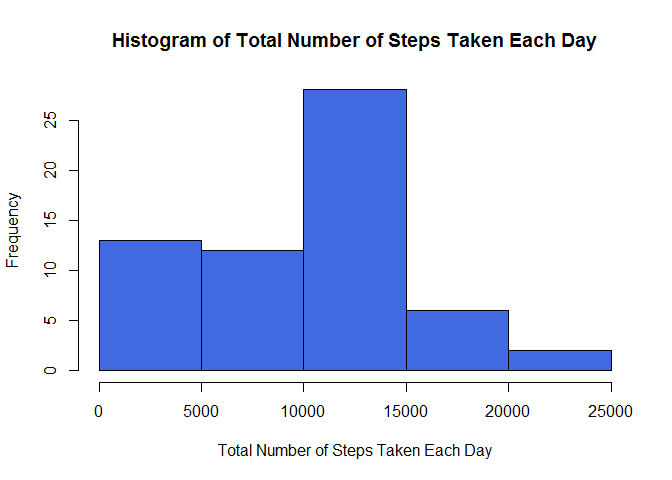
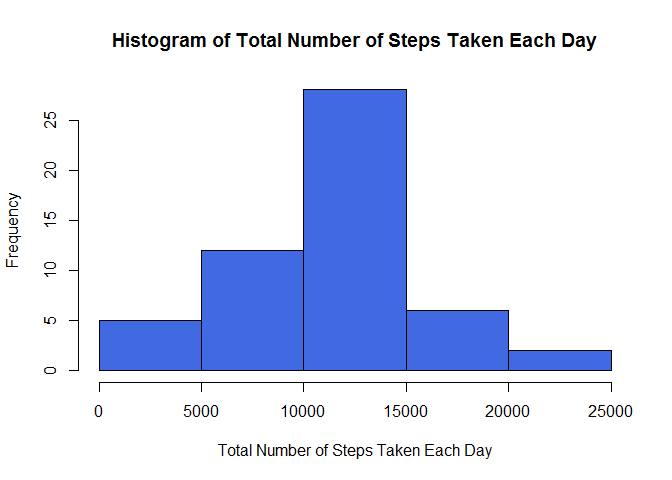
Adjusted total_steps to correct treatment of NAs

Changed region(s): [[0.125, 0.5, 0.3125, 0.6875]]

diff --git a/PA1_template.html b/PA1_template.html
@@ -86,21 +86,21 @@ steps_data &lt;- read.csv(filename)</code></pre>
 ## 
 ##     intersect, setdiff, setequal, union</code></pre>
 <pre class="r"><code>steps_by_day &lt;- group_by(steps_data, date)
-steps_summary &lt;- summarize(steps_by_day, total_steps = sum(steps, na.rm = TRUE))</code></pre>
+steps_summary &lt;- summarize(steps_by_day, total_steps = sum(steps))</code></pre>
 <p>This graphic display shows the histogram of the total number of steps taken each day.</p>
 <pre class="r"><code>hist(steps_summary$total_steps, col = &quot;royalblue&quot;, xlab = 
         &quot;Total Number of Steps Taken Each Day&quot;, main = 
         &quot;Histogram of Total Number of Steps Taken Each Day&quot;)</code></pre>
[2 lines of base64/hex data omitted]
 <p>Calculate the mean and median of the total number of steps taken per day. Missing values are ignored.</p>
 <pre class="r"><code>mean_total &lt;- mean(steps_summary$total_steps, na.rm = TRUE)
 median_total &lt;- median(steps_summary$total_steps, na.rm = TRUE)</code></pre>
 <p>The mean total number of steps taken per day is</p>
 <pre class="r"><code>print(mean_total)</code></pre>
-<pre><code>## [1] 9354.23</code></pre>
+<pre><code>## [1] 10766.19</code></pre>
 <p>The median total number of steps taken per day is</p>
 <pre class="r"><code>print(median_total)</code></pre>
-<pre><code>## [1] 10395</code></pre>
+<pre><code>## [1] 10765</code></pre>
 </div>
 <div id="what-is-the-average-daily-activity-pattern" class="section level2">
 <h2>What is the average daily activity pattern?</h2>
@@ -160,7 +160,7 @@ median_total2 &lt;- mean(steps_summary2$total_steps, na.rm = TRUE)</code></pre>
 <p>The resulting median total number of steps taken per day is</p>
 <pre class="r"><code>print(median_total2)</code></pre>
 <pre><code>## [1] 10766.19</code></pre>
-<p>The mean and median calculated using the new dataset are slightly higher than those calculated in the first part of the assignment where missing values were ignored. Using the new dataset, the mean is equal to the median. This suggests that the distribution of total number of steps is symmetric. The histogram above supports this. The histogram shows that the distribution of the total number of steps taken per day now appears bell-shaped - close to a normal distribution. Imputing missing values lessened the bias on the calculations and summaries of the data.</p>
+<p>The mean calculated using the new dataset is equal to the mean calculated in the first part of the assignment, where missing values were ignored. The median calculated using the new dataset is close in value to the median calculated in the first part of the assignment. Using the new dataset, the mean is equal to the median. This suggests that the distribution of total number of steps is symmetric. The histogram above supports this. The histogram shows that the distribution of the total number of steps taken per day now appears bell-shaped - close to a normal distribution. Imputing missing values lessened the bias on the calculations and summaries of the data.</p>
 </div>
 <div id="are-there-differences-in-activity-patterns-between-weekdays-and-weekends" class="section level2">
 <h2>Are there differences in activity patterns between weekdays and weekends?</h2>

diff --git a/PA1_template.md b/PA1_template.md
@@ -35,7 +35,7 @@ library(dplyr)
 
 ```r
 steps_by_day <- group_by(steps_data, date)
-steps_summary <- summarize(steps_by_day, total_steps = sum(steps, na.rm = TRUE))
+steps_summary <- summarize(steps_by_day, total_steps = sum(steps))
 ```
 
 This graphic display shows the histogram of the total number of steps taken each day.
@@ -62,7 +62,7 @@ print(mean_total)
 ```
 
 ```
-## [1] 9354.23
+## [1] 10766.19
 ```
 
 The median total number of steps taken per day is
@@ -72,7 +72,7 @@ print(median_total)
 ```
 
 ```
-## [1] 10395
+## [1] 10765
 ```
 
 ## What is the average daily activity pattern?
@@ -201,7 +201,7 @@ print(median_total2)
 ## [1] 10766.19
 ```
 
-The mean and median calculated using the new dataset are slightly higher than those calculated in the first part of the assignment where missing values were ignored. Using the new dataset, the mean is equal to the median. This suggests that the distribution of total number of steps is symmetric. The histogram above supports this. The histogram shows that the distribution of the total number of steps taken per day now appears bell-shaped - close to a normal distribution. Imputing missing values lessened the bias on the calculations and summaries of the data.
+The mean calculated using the new dataset is equal to the mean calculated in the first part of the assignment, where missing values were ignored. The median calculated using the new dataset is close in value to the median calculated in the first part of the assignment. Using the new dataset, the mean is equal to the median. This suggests that the distribution of total number of steps is symmetric. The histogram above supports this. The histogram shows that the distribution of the total number of steps taken per day now appears bell-shaped - close to a normal distribution. Imputing missing values lessened the bias on the calculations and summaries of the data.
 
 ## Are there differences in activity patterns between weekdays and weekends?
 
